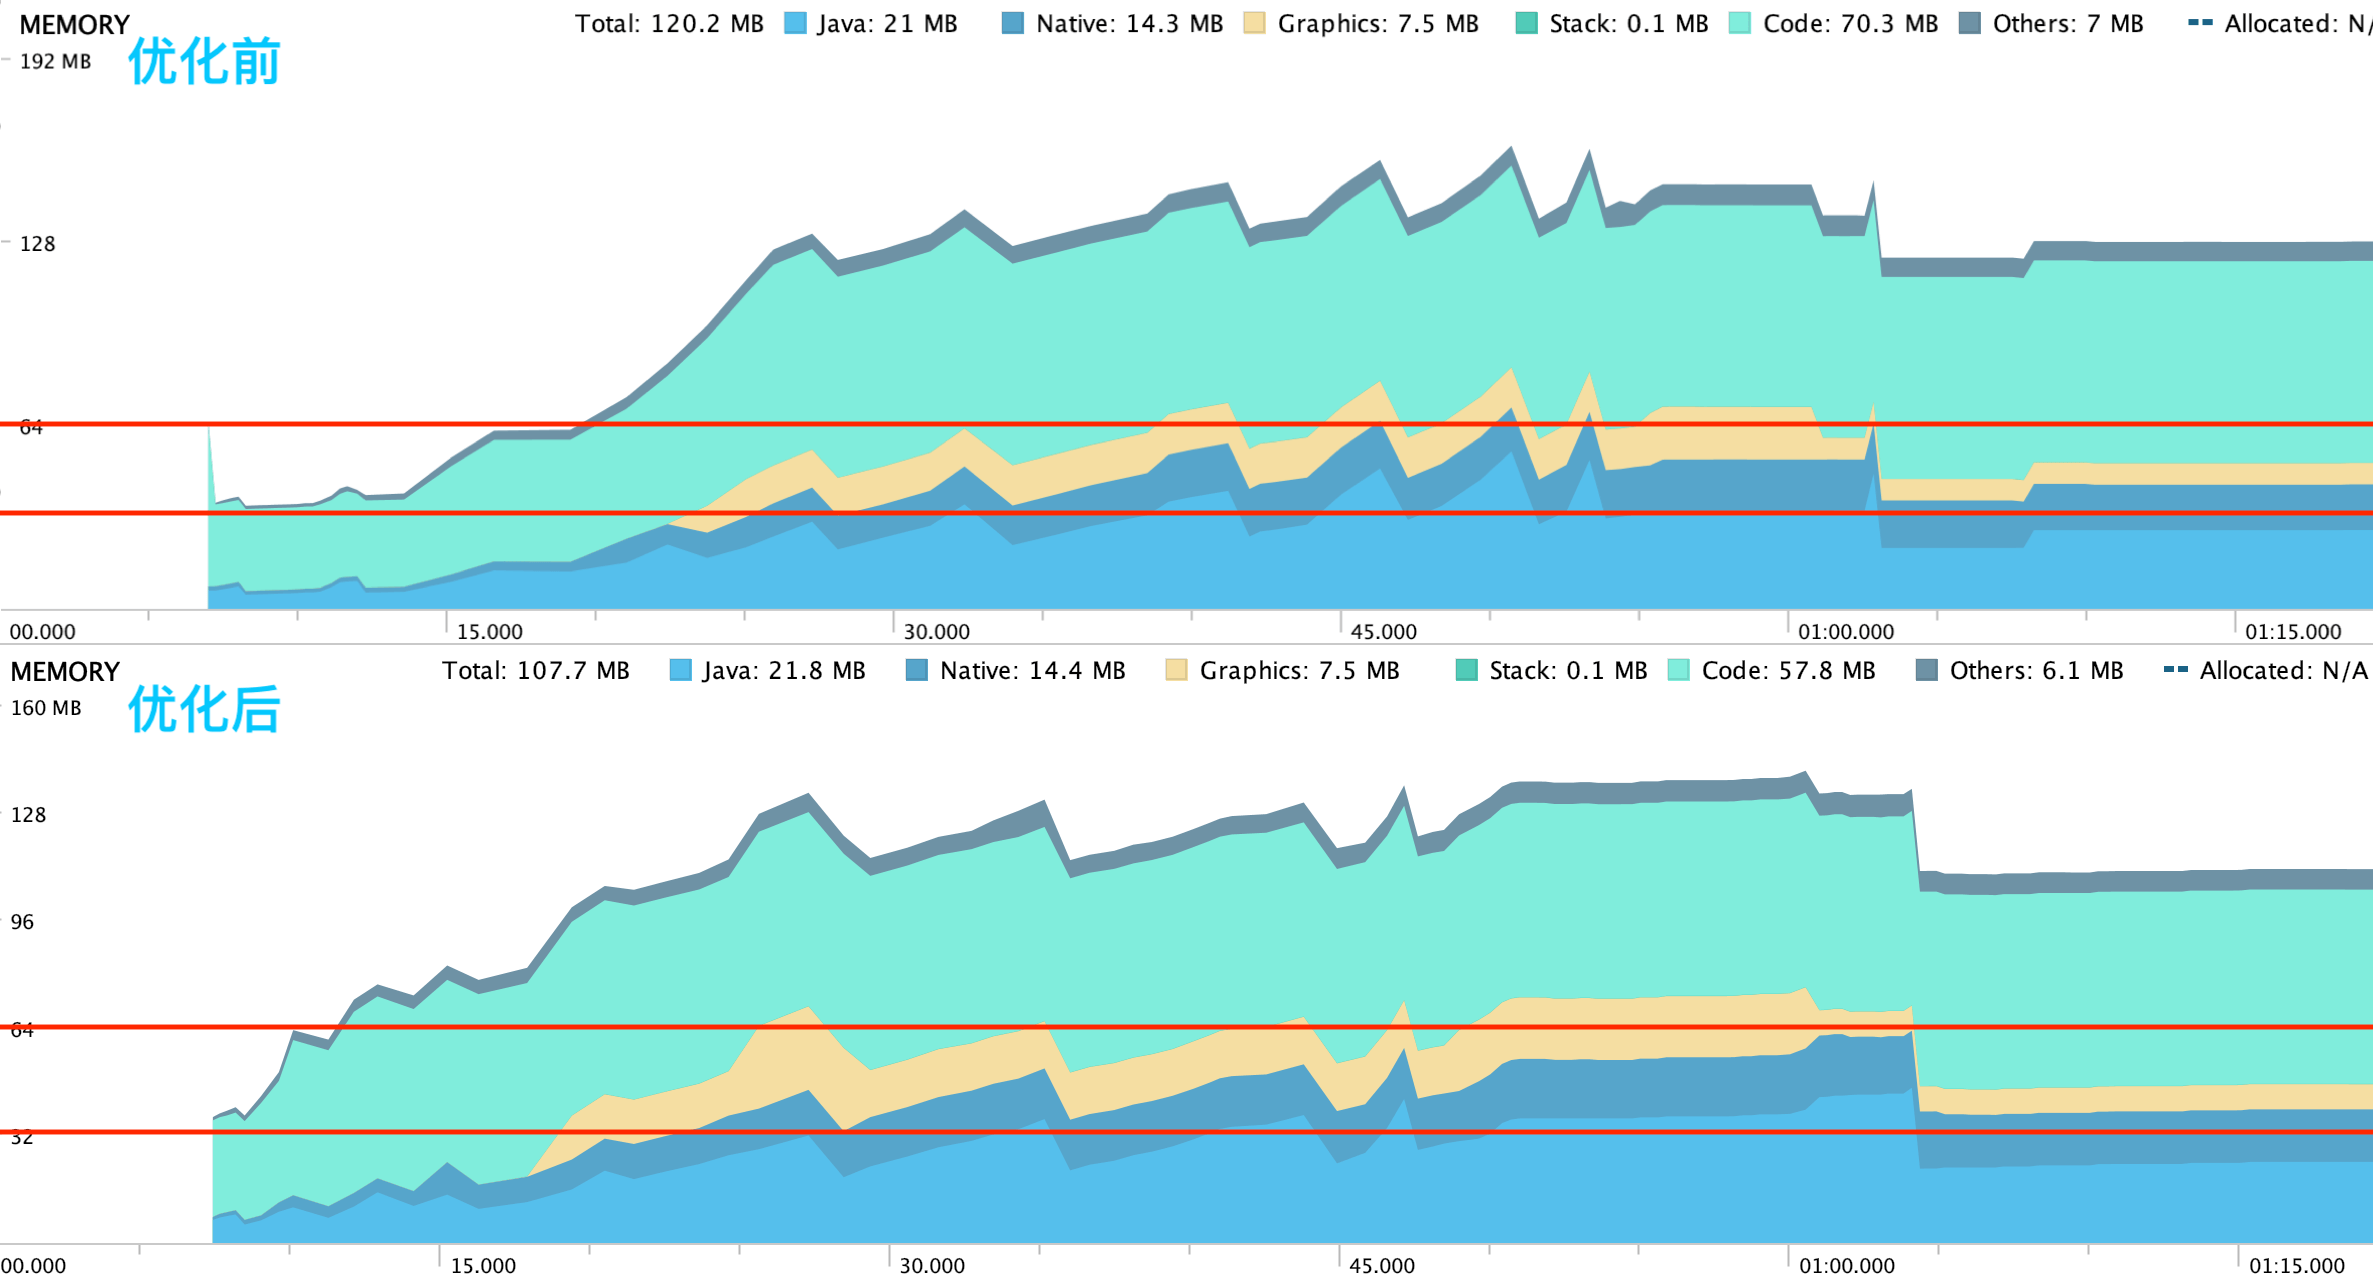
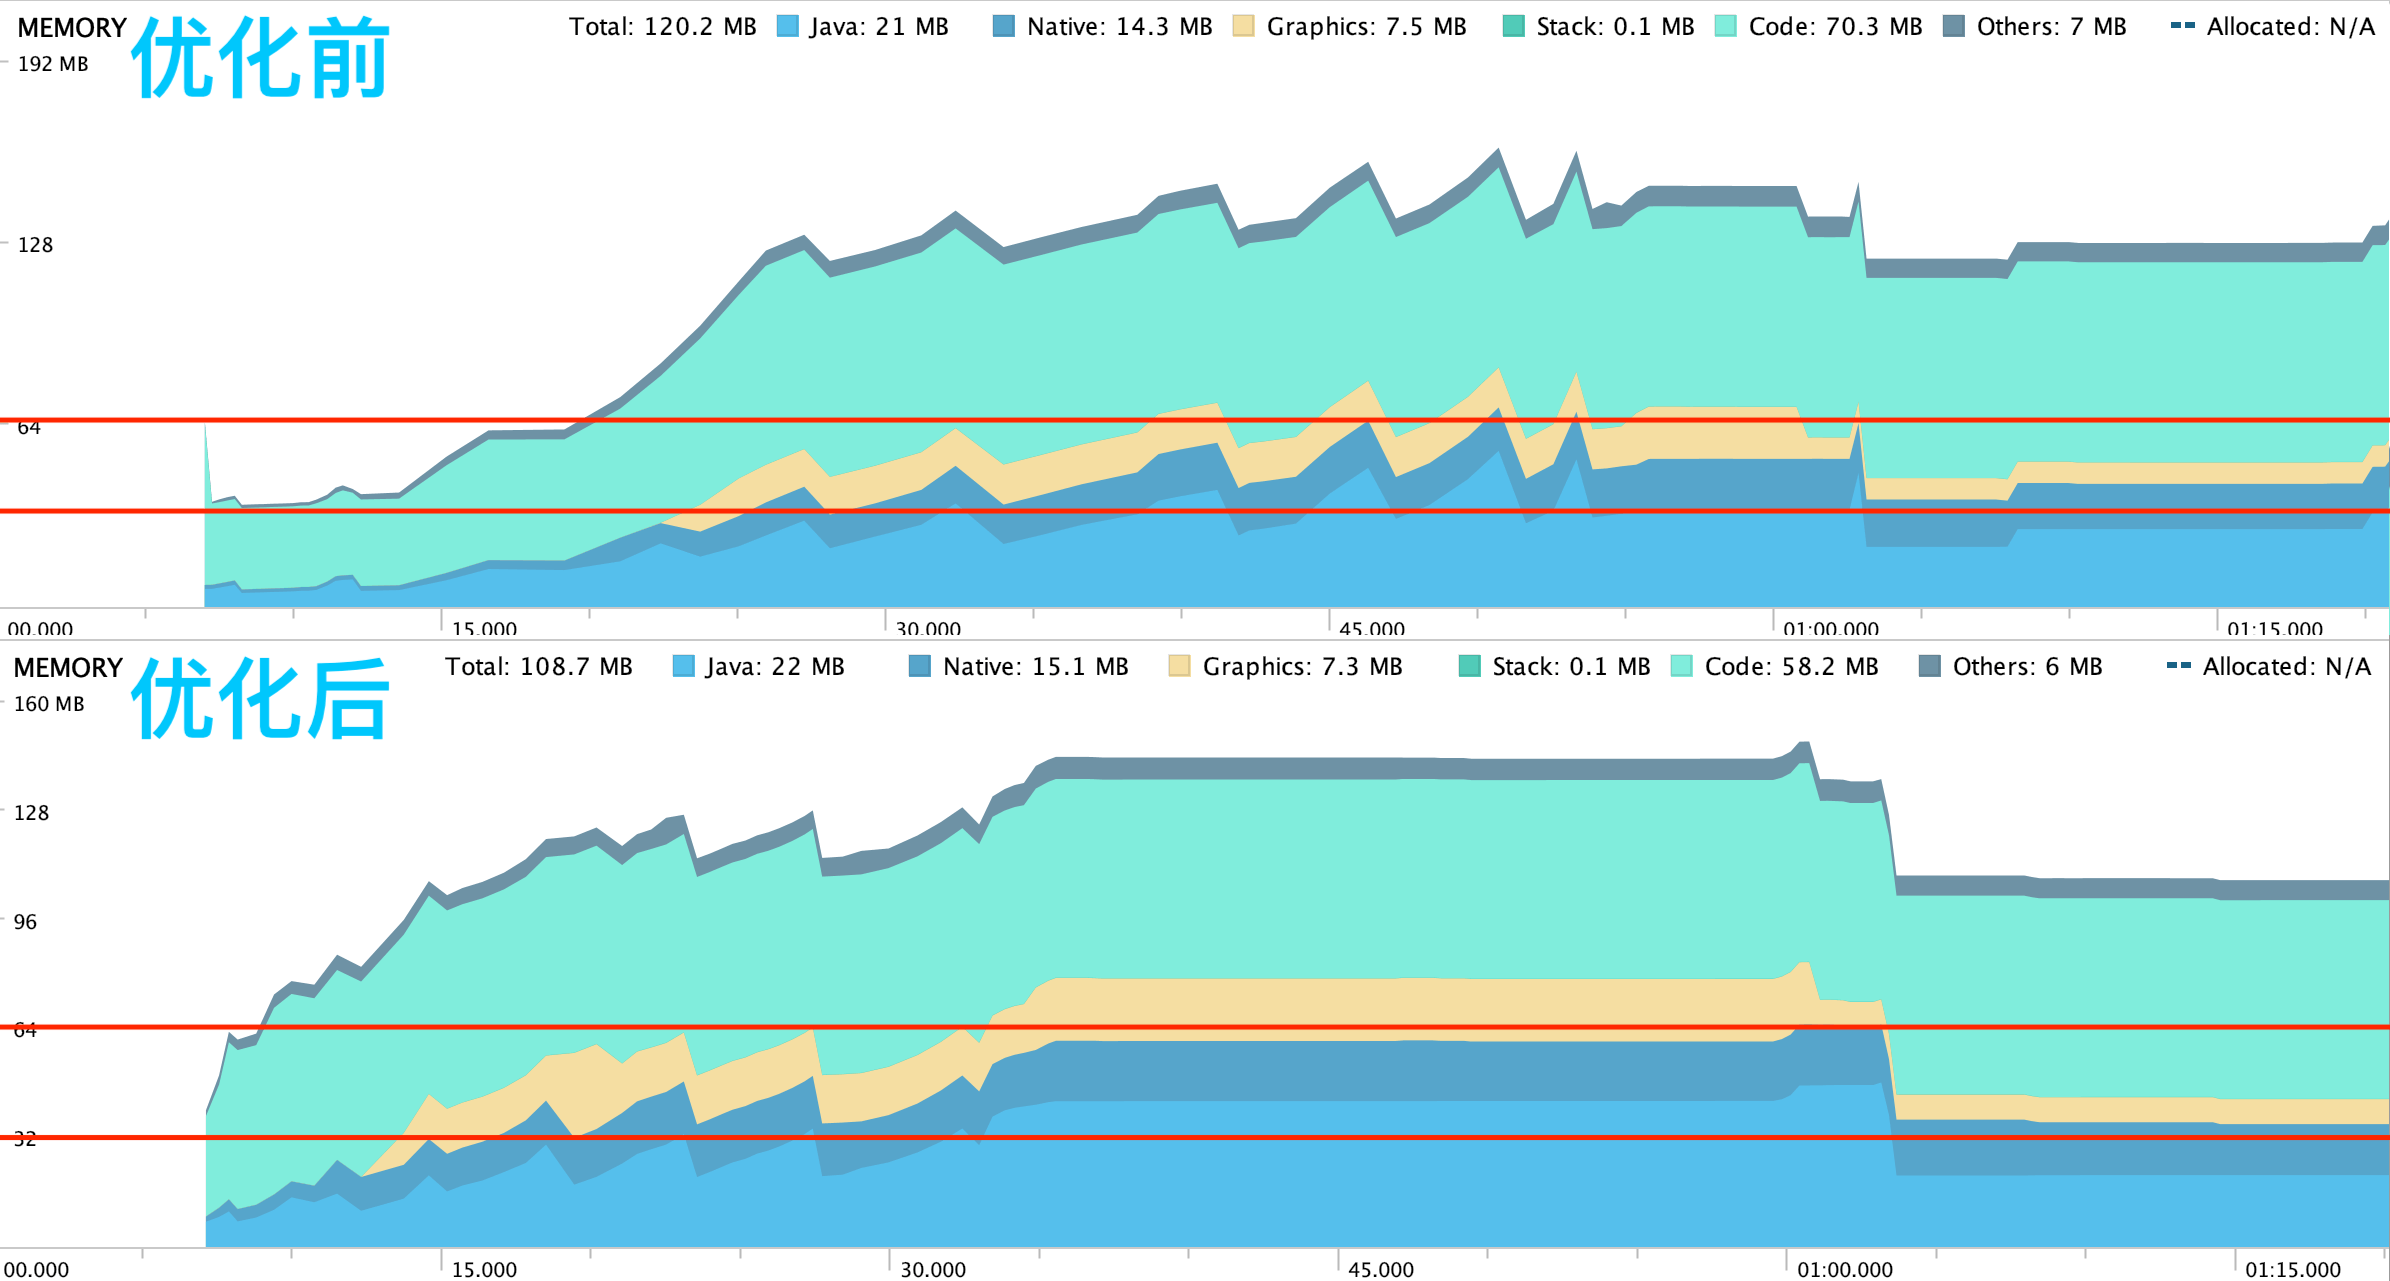
Fix

diff --git a/_posts/2019-12-07-starting_memory_uasge.md b/_posts/2019-12-07-starting_memory_uasge.md
@@ -532,9 +532,9 @@ protected void onDestroy() {
 
 ![dump_size_compare](/img/android/performance/dump_size_compare.png)
 
-对比优化后，在35秒轻微越过32MB堆内存，而且随后内存申请曲线相对柔和，甚至节省了两次垃圾回收(维持在稍高水平)，令启动时间从55秒提前到50秒完成
+对比优化后，在28秒轻微越过32MB堆内存，而且随后内存申请曲线相对柔和，启动完成时间从55秒提前到35秒。随后也不再触发垃圾回收操作，所以内存维持在稍高水平
 
-1分钟整时完成启动停在主界面，然后把应用退到后台，两者堆内存减少到21MB，可见应用后台占用内存不多
+1分钟整均完成启动停在主界面，把应用退到后台，两者堆内存减少到21MB，可见应用后台占用内存不多
 
 ### 五、总结
 
